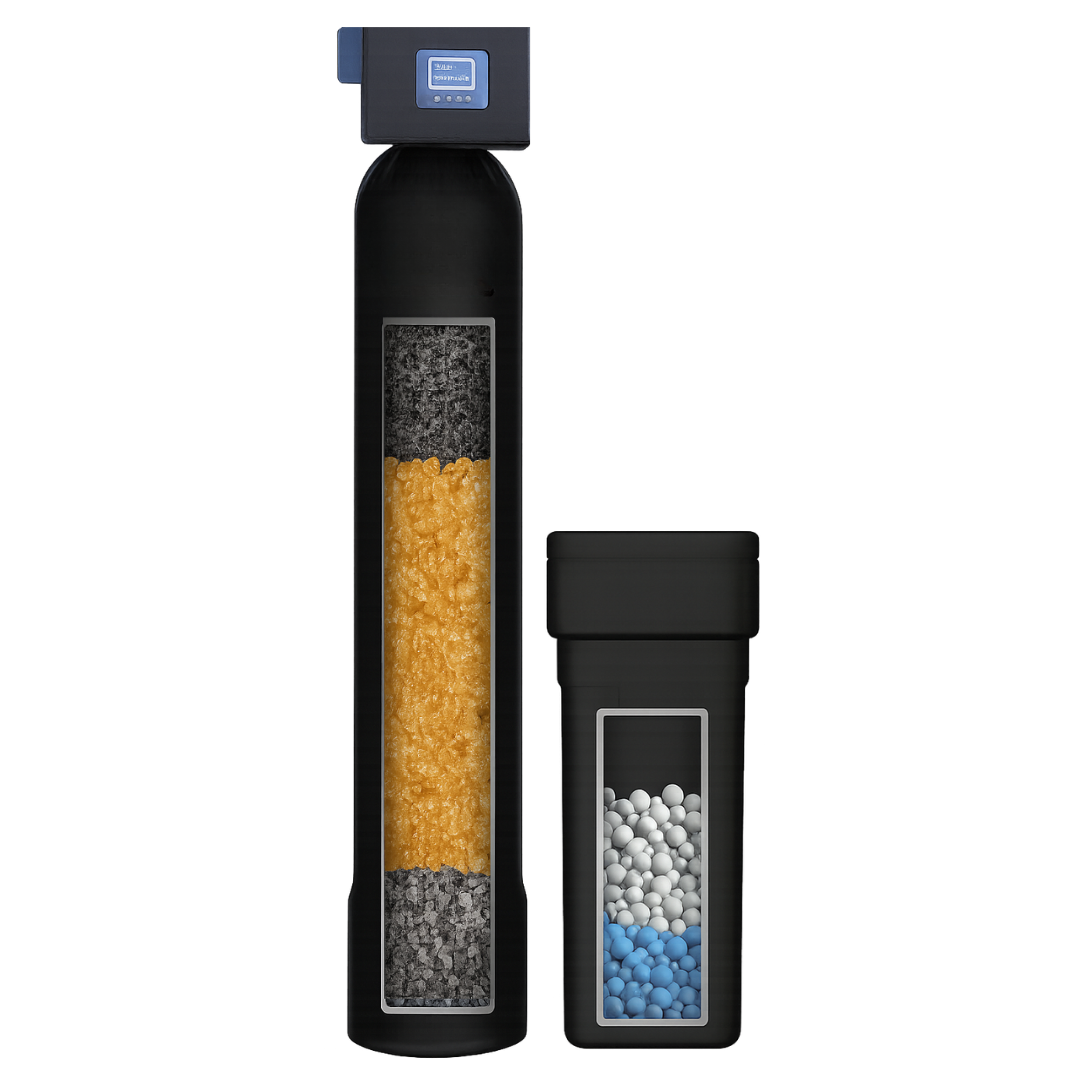
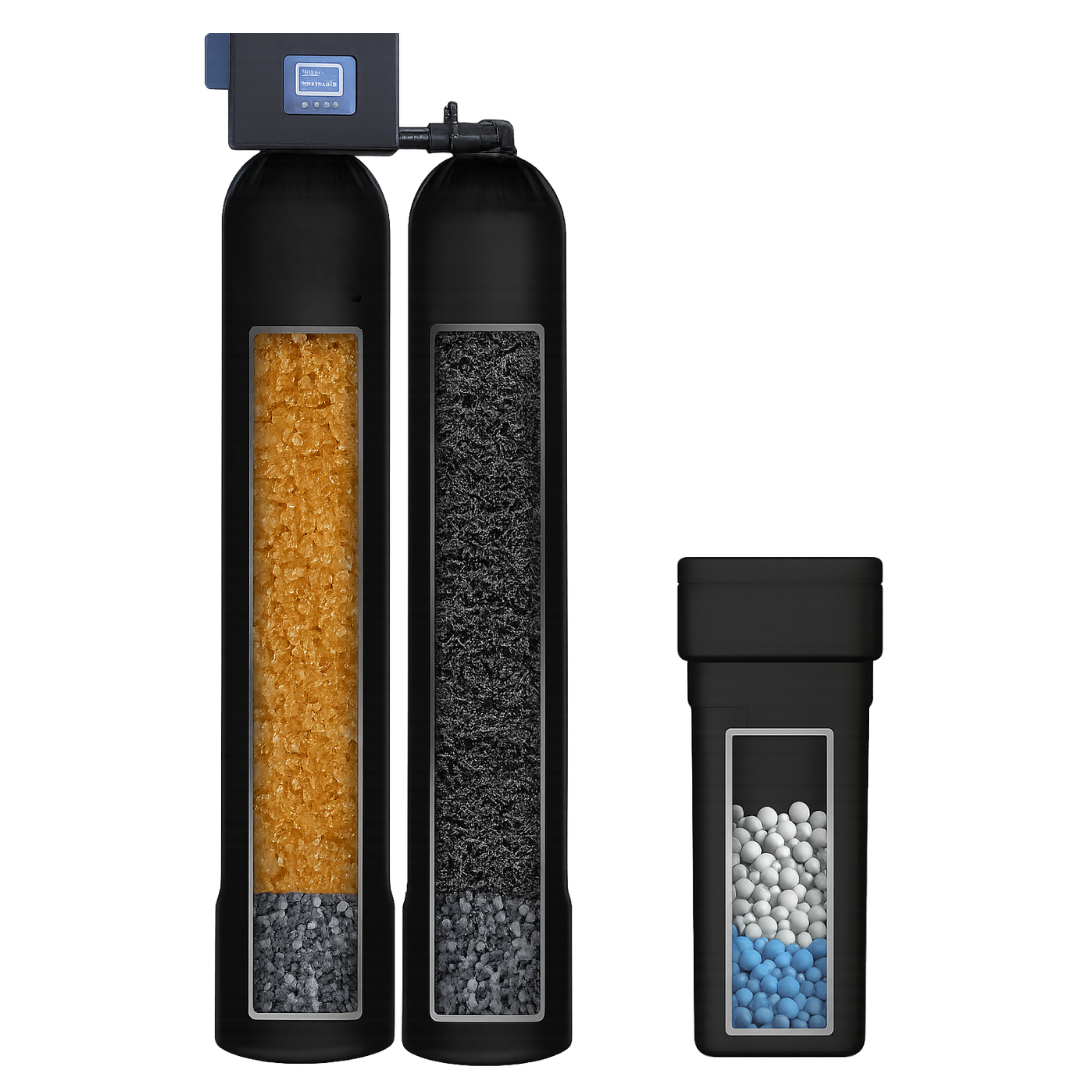
Add files via upload

diff --git a/index.html b/index.html
@@ -1,63 +1,1 @@
-<!doctype html>
-<html lang="en">
-<head>
-  <meta charset="UTF-8" />
-  <meta name="viewport" content="width=device-width, initial-scale=1.0" />
-  <title>Honest Water Co SF</title>
-  <meta name="description" content="Whole-home water filtration and softening systems for San Francisco and Bay Area homeowners." />
-  <link rel="stylesheet" href="style.css" />
-</head>
-<body>
-  <div class="topbar">Save up to 40% on complete home water systems for Bay Area homeowners</div>
-  <header class="header">
-    <a class="brand" href="#top"><span class="logo">💧</span><span><strong>Honest Water Co</strong><small>San Francisco Dealer</small></span></a>
-    <nav>
-      <a href="#products">Products</a><a href="#areas">Service Areas</a><a href="#process">How It Works</a><a href="#gallery">Gallery</a><a href="#faq">FAQs</a>
-    </nav>
-    <div class="header-cta"><a href="tel:[phone redacted]">[phone redacted]</a><a class="btn" href="#quote">Quick Quote</a></div>
-  </header>
-
-  <main id="top">
-    <section class="trust-row">
-      <div>✅ <b>Lifetime Warranty</b><span>Clean water protection</span></div>
-      <div>🔧 <b>Professional Installation</b><span>Local licensed pros</span></div>
-      <div>⭐ <b>Trusted Product Line</b><span>Dealer-backed systems</span></div>
-      <div>🏠 <b>Family-Owned Service</b><span>Bay Area care</span></div>
-    </section>
-
-    <section class="hero">
-      <div class="hero-copy">
-        <p class="pill">Bay Area whole-home water treatment</p>
-        <h1>Trusted Water Treatment & Filtration Services in San Francisco</h1>
-        <p class="lead">Get cleaner, softer, better-tasting water throughout your entire home with Honest Water Co systems — now available for San Francisco and Bay Area homeowners through your local dealer.</p>
-        <div class="actions"><a class="btn" href="#quote">Get My Free Quote →</a><a class="btn ghost" href="tel:[phone redacted]">Call [phone redacted]</a></div>
-        <p class="note">Serving homes within roughly 60–90 minutes of San Francisco.</p>
-      </div>
-      <div class="hero-card">
-        <img src="honest-water-ro-system.png" alt="Honest Water reverse osmosis system" />
-      </div>
-    </section>
-
-    <section id="products" class="section gray">
-      <div class="section-head"><p>Our most popular systems</p><h2>Whole-home water solutions built for Bay Area families.</h2><span>From showers to drinking water, we help homeowners choose the right system for their home, budget, and water quality goals.</span></div>
-      <div class="cards">
-        <article class="card"><span class="tag">Best Seller</span><img src="whole-home-system.png" alt="Complete whole home water system" /><h3>Complete Home System Package</h3><p>A full-home water treatment solution built to improve water quality at the main point of entry, helping your entire home enjoy cleaner, softer water.</p><ul><li>Whole-home treatment</li><li>Cleaner showers</li><li>Better taste and smell</li><li>Appliance protection</li></ul><a class="btn" href="#quote">Request Quote</a></article>
-        <article class="card"><span class="tag">Family Favorite</span><img src="softener-system.png" alt="Water softener system" /><h3>Water Softener with Chlorine Filtration</h3><p>Designed to reduce hardness and chlorine so your water feels better on skin, hair, dishes, laundry, and plumbing fixtures.</p><ul><li>Softer skin and hair</li><li>Less scale buildup</li><li>Cleaner dishes</li><li>Lower soap usage</li></ul><a class="btn" href="#quote">Request Quote</a></article>
-        <article class="card"><span class="tag">Drinking Water Upgrade</span><img src="reverse-osmosis-system.png" alt="Tankless reverse osmosis drinking system" /><h3>Tankless Reverse Osmosis Drinking System</h3><p>A sleek under-sink drinking water system for crisp, clean water straight from the tap.</p><ul><li>Great-tasting water</li><li>Under-sink design</li><li>Daily drinking water</li><li>Modern filtration</li></ul><a class="btn" href="#quote">Request Quote</a></article>
-      </div>
-    </section>
-
-    <section id="process" class="section process"><div><p class="eyebrow">Simple process</p><h2>From quick quote to clean water.</h2><p>We keep the process simple, local, and transparent so you can make a confident decision without pressure.</p></div><div class="steps"><div><b>01</b><h3>Request a Quote</h3><p>Tell us about your home and what you want improved.</p></div><div><b>02</b><h3>Match the System</h3><p>We recommend the right setup for your water goals.</p></div><div><b>03</b><h3>Install & Enjoy</h3><p>A professional installer completes the setup.</p></div></div></section>
-
-    <section id="areas" class="areas"><div><h2>Serving San Francisco and the greater Bay Area.</h2><p>We help homeowners across the Bay Area within roughly an hour to an hour and a half from San Francisco.</p></div><div class="area-grid"><span>San Francisco</span><span>Daly City</span><span>San Mateo</span><span>Burlingame</span><span>Oakland</span><span>Berkeley</span><span>San Rafael</span><span>Mill Valley</span><span>San Jose</span><span>Walnut Creek</span><span>Fremont</span><span>Palo Alto</span></div></section>
-
-    <section id="gallery" class="section"><div class="gallery-head"><div><p class="eyebrow">Install gallery</p><h2>Real installs. Clean setups. Better water.</h2></div><a class="btn" href="#quote">Schedule My Install</a></div><div class="gallery"><img src="install-single-garage.jpg" alt="Whole home water filtration installation"/><img src="install-double-system.jpg" alt="Dual tank whole home water system"/><img src="install-outdoor-brick.jpg" alt="Outdoor whole home water filtration install"/><img src="install-clean-wall.jpg" alt="Clean garage water filtration setup"/><img src="install-corner-system.jpg" alt="Bay Area home water softener installation"/><img src="kitchen-clean-water.jpg" alt="Clean drinking water from kitchen faucet"/></div></section>
-
-    <section id="faq" class="section gray"><div class="section-head"><p>FAQs</p><h2>Common questions answered.</h2></div><div class="faq"><details open><summary>Do you service all of the Bay Area?</summary><p>Yes. We serve homes across San Francisco and most Bay Area cities within roughly 60 to 90 minutes of San Francisco.</p></details><details><summary>Is installation included?</summary><p>Most systems can be professionally installed by a licensed local installer. Details depend on your home setup and selected system.</p></details><details><summary>Will this help with hard water?</summary><p>Yes. Whole-home softening and filtration systems are designed to reduce hardness, chlorine taste and smell, sediment, and common water quality issues depending on the selected package.</p></details></div></section>
-
-    <section id="quote" class="quote"><div><p class="eyebrow">Quick quote</p><h2>Ready to enjoy cleaner water?</h2><p>Call now or request a free quote and we’ll help you choose the right system for your home.</p><a class="btn white" href="tel:[phone redacted]">Call [phone redacted]</a></div><form><input placeholder="Full name"/><input placeholder="Phone number"/><input placeholder="City"/><select><option>What are you interested in?</option><option>Whole-home filtration</option><option>Water softener</option><option>Reverse osmosis drinking water</option><option>Not sure yet</option></select><textarea placeholder="Tell us about your water concerns"></textarea><button type="button">Submit Quote Request</button></form></section>
-  </main>
-  <footer><b>Honest Water Co SF</b><p>Family-owned local dealer helping San Francisco and Bay Area homeowners upgrade to cleaner, softer, better-tasting water.</p><a href="tel:[phone redacted]">[phone redacted]</a></footer>
-  <a class="mobile-call" href="tel:[phone redacted]">Call for Quick Quote</a>
-</body>
-</html>
+<!doctype html><html lang="en"><head><meta charset="UTF-8"/><meta name="viewport" content="width=device-width, initial-scale=1.0"/><title>Golden Crest Water | Bay Area Whole-Home Water Filtration</title><meta name="description" content="Golden Crest Water provides whole-home water filtration, softener and reverse osmosis systems for Bay Area homeowners."/></head><body><div id="root"></div><script type="module" src="/src/main.jsx"></script></body></html>

diff --git a/main.jsx b/main.jsx
@@ -1,0 +1,27 @@
+
+import React from 'react';
+import { createRoot } from 'react-dom/client';
+import { Droplets, ShieldCheck, Wrench, Home, Star, CheckCircle2, Phone } from 'lucide-react';
+import './style.css';
+const img='/images/';
+function App(){
+const services=[
+ {title:'Whole-Home Filtration',image:'whole-home-system.png',items:['Filters water before it reaches every faucet','Targets chlorine taste, odor and sediment','Built for Bay Area homes and families']},
+ {title:'Water Softener Systems',image:'softener-system.png',items:['Helps reduce scale buildup on fixtures','Better shower feel for hair and skin','Protects appliances and plumbing over time']},
+ {title:'Reverse Osmosis Drinking Water',image:'reverse-osmosis-system.png',items:['Clean, crisp water at the kitchen sink','Helps reduce bottled water dependence','Compact under-sink design with modern faucet']}
+];
+const areas=['San Francisco','Daly City','San Mateo','Burlingame','Redwood City','Palo Alto','San Jose','Marin','East Bay'];
+return <>
+ <div className="topbar">Bay Area whole-home water filtration consultations • Financing options available</div>
+ <nav className="nav"><div className="nav-inner"><a className="brand" href="#home"><img src={img+'logo-golden-crest.png'}/><div><div className="brand-title">Golden Crest Water</div><div className="brand-sub">BAY AREA WATER SYSTEMS</div></div></a><div className="links"><a href="#systems">Systems</a><a href="#process">How It Works</a><a href="#areas">Service Areas</a><a href="#gallery">Gallery</a><a href="#quote">Get Quote</a></div><a className="btn" href="#quote">Free Water Check</a></div></nav>
+ <main id="home" className="hero"><div className="hero-grid"><div><span className="eyebrow">Bay Area Whole-Home Water Treatment</span><h1>Cleaner, softer water for your entire home.</h1><p>Golden Crest Water helps homeowners upgrade from hard, chlorine-heavy tap water to professionally installed filtration, softener and reverse osmosis systems.</p><div className="actions"><a className="btn" href="#quote">Book Free Consultation</a><a className="btn secondary" href="#systems">View Systems</a></div></div><div className="hero-card"><img src={img+'golden-install-double-system.jpg'} alt="Installed whole-home water treatment system"/></div></div></main>
+ <section className="trust"><div className="trust-card"><ShieldCheck/><b>Quality Equipment</b><span>Dealer-backed water systems.</span></div><div className="trust-card"><Wrench/><b>Professional Installation</b><span>Installed by local licensed pros.</span></div><div className="trust-card"><Star/><b>Local Service</b><span>Bay Area support from start to finish.</span></div><div className="trust-card"><Home/><b>Family-Owned Feel</b><span>No corporate pressure tactics.</span></div></section>
+ <section className="section blue-section"><div className="wrap split"><div><span className="eyebrow">The Problem</span><h2>Most Bay Area homes still rely on untreated tap water.</h2><p>Even when water is considered safe, many homeowners still deal with chlorine smell, scale buildup, dry skin, rough laundry, appliance wear and bad-tasting drinking water.</p></div><div className="problem-list">{['White scale on faucets and shower glass','Chlorine taste or smell','Dry skin and hair after showering','Buying cases of bottled water','Concern about old plumbing and sediments'].map(x=><div className="problem" key={x}><CheckCircle2 size={18}/> {x}</div>)}</div></div></section>
+ <section id="systems" className="section"><div className="wrap"><div className="section-head"><span className="eyebrow">Systems</span><h2>Built around what your home actually needs.</h2><p>Start with a simple consultation and match the system to your water, household size and goals.</p></div><div className="grid3">{services.map(s=><div className="service" key={s.title}><img src={img+s.image}/><h3>{s.title}</h3><ul>{s.items.map(i=><li key={i}>{i}</li>)}</ul></div>)}</div></div></section>
+ <section id="process" className="section blue-section"><div className="wrap"><div className="section-head"><span className="eyebrow">How It Works</span><h2>A simple process from quote to clean water.</h2></div><div className="steps">{['Free water consultation','System recommendation','Professional installation','Enjoy better water'].map((s,i)=><div className="step" key={s}><div className="num">{i+1}</div><h3>{s}</h3><p>{['We learn your water goals, home setup and service area.','We recommend filtration, softening, RO or a full-home package.','A local licensed pro handles the install cleanly and professionally.','Enjoy better showers, drinking water and appliance protection.'][i]}</p></div>)}</div></div></section>
+ <section id="gallery" className="section"><div className="wrap"><div className="section-head"><span className="eyebrow">Install Gallery</span><h2>Clean installs designed to fit real homes.</h2><p>Garage, side-yard and utility-area installs for homeowners across the Bay Area.</p></div><div className="gallery">{['golden-install-clean-wall.jpg','golden-install-corner-system.jpg','golden-install-double-system.jpg','golden-install-outdoor-brick.jpg','golden-install-single-garage.jpg'].map(x=><img key={x} src={img+x}/>)}</div></div></section>
+ <section id="areas" className="section blue-section"><div className="wrap split"><div><span className="eyebrow">Service Areas</span><h2>Serving homeowners across the Bay Area.</h2><p>Golden Crest Water is based for Peninsula and Bay Area coverage, with consultations available across nearby cities.</p></div><div className="grid3">{areas.map(a=><div className="problem" key={a}>{a}</div>)}</div></div></section>
+ <section id="quote" className="section"><div className="wrap cta"><div><h2>Ready to find out what your home needs?</h2><p>Request a free consultation and we’ll help you compare options for whole-home filtration, softening and drinking water.</p><p className="small">Replace this form with your GoHighLevel embed when ready.</p></div><form className="form"><input placeholder="Full name"/><input placeholder="Phone number"/><input placeholder="City"/><select><option>What are you interested in?</option><option>Whole-home filtration</option><option>Water softener</option><option>Reverse osmosis</option><option>Not sure yet</option></select><textarea rows="4" placeholder="Tell us what you want improved about your water"></textarea><button className="btn" type="button"><Phone size={18}/> Request Quote</button></form></div></section>
+ <footer className="footer"><div className="footer-inner"><div><b>Golden Crest Water</b><div className="small">Whole-home water filtration, softeners and RO systems for Bay Area homeowners.</div></div><div className="small">Service-area business • Bay Area, CA<br/>© {new Date().getFullYear()} Golden Crest Water. All rights reserved.</div></div></footer>
+ </>}
+createRoot(document.getElementById('root')).render(<App/>);

diff --git a/style.css b/style.css
@@ -1,2 +1,2 @@
 
-*{box-sizing:border-box}html{scroll-behavior:smooth}body{margin:0;font-family:Inter,ui-sans-serif,system-ui,-apple-system,BlinkMacSystemFont,"Segoe UI",sans-serif;color:#071126;background:white}a{text-decoration:none;color:inherit}.topbar{background:#0b79bd;color:white;text-align:center;font-weight:800;font-size:14px;padding:12px}.header{position:sticky;top:0;z-index:10;display:flex;align-items:center;justify-content:space-between;gap:24px;padding:16px 7%;background:rgba(255,255,255,.92);border-bottom:1px solid #e6edf3;backdrop-filter:blur(14px)}.brand{display:flex;align-items:center;gap:12px}.logo{display:grid;place-items:center;background:#0b8bd3;color:white;width:44px;height:44px;border-radius:50%}.brand strong{display:block;font-size:19px}.brand small{display:block;color:#0b79bd;text-transform:uppercase;font-size:11px;letter-spacing:2px;font-weight:900}nav{display:flex;gap:24px;font-size:14px;font-weight:800;color:#3d4a5c}.header-cta{display:flex;align-items:center;gap:18px;font-weight:900}.btn{display:inline-flex;align-items:center;justify-content:center;background:#1789d1;color:white;border-radius:999px;padding:14px 24px;font-weight:900;box-shadow:0 12px 25px rgba(23,137,209,.22);border:0}.btn.ghost{background:white;color:#071126;border:1px solid #dce6ef;box-shadow:none}.btn.white{background:white;color:#071126}.trust-row{display:grid;grid-template-columns:repeat(4,1fr);gap:16px;padding:30px 7%;background:linear-gradient(#effaff,#fff)}.trust-row div{background:white;border:1px solid #e2ebf3;border-radius:22px;padding:18px;box-shadow:0 8px 20px rgba(9,26,44,.05)}.trust-row b{display:block}.trust-row span{display:block;color:#6b7888;font-size:13px;margin-top:4px}.hero{display:grid;grid-template-columns:1.1fr .9fr;gap:60px;align-items:center;padding:70px 7% 90px}.pill,.eyebrow,.section-head p{display:inline-block;color:#0875b8;background:#e9f7ff;border:1px solid #b9e6ff;border-radius:999px;padding:8px 15px;font-size:14px;font-weight:900;text-transform:uppercase;letter-spacing:.08em}.hero h1{font-size:clamp(44px,6vw,82px);line-height:.97;margin:20px 0;color:#050817;letter-spacing:-.06em}.lead{font-size:20px;line-height:1.8;color:#405169;max-width:720px}.actions{display:flex;gap:14px;margin-top:28px}.note{font-weight:800;color:#6b7888;margin-top:20px}.hero-card{border-radius:34px;background:linear-gradient(145deg,#effaff,#fff);padding:30px;box-shadow:0 30px 80px rgba(7,17,38,.13)}.hero-card img{display:block;max-height:540px;width:100%;object-fit:contain}.section{padding:90px 7%}.gray{background:#f6f9fc}.section-head{text-align:center;max-width:850px;margin:0 auto 48px}.section-head h2,.process h2,.areas h2,.gallery-head h2,.quote h2{font-size:clamp(34px,4vw,56px);line-height:1.05;margin:16px 0 16px;letter-spacing:-.04em}.section-head span,.section-head p+span,.process p,.areas p,.quote p{color:#5b687a;font-size:18px;line-height:1.7}.cards{display:grid;grid-template-columns:repeat(3,1fr);gap:26px}.card{background:white;border:1px solid #e1eaf3;border-radius:32px;padding:26px;box-shadow:0 8px 25px rgba(7,17,38,.04);transition:.2s}.card:hover{transform:translateY(-5px);box-shadow:0 18px 40px rgba(7,17,38,.1)}.tag{display:inline-block;background:#e9f7ff;color:#0875b8;border-radius:999px;padding:8px 12px;font-size:12px;font-weight:900;text-transform:uppercase}.card img{width:100%;height:270px;object-fit:contain;background:linear-gradient(145deg,#f8fbff,#fff);border-radius:24px;padding:18px;margin:18px 0}.card h3{font-size:25px;margin:10px 0}.card p,.card li{color:#5b687a;line-height:1.6}.card ul{padding-left:20px}.process{display:grid;grid-template-columns:.8fr 1.2fr;gap:50px}.steps{display:grid;grid-template-columns:repeat(3,1fr);gap:20px}.steps div{border:1px solid #e1eaf3;border-radius:28px;padding:25px}.steps b{color:#0875b8}.areas{display:grid;grid-template-columns:.8fr 1.2fr;gap:50px;align-items:center;background:#0875b8;color:white;padding:90px 7%}.areas p{color:#e6f7ff}.area-grid{display:grid;grid-template-columns:repeat(3,1fr);gap:12px}.area-grid span{background:rgba(255,255,255,.13);padding:15px;border-radius:16px;font-weight:900}.gallery-head{display:flex;align-items:end;justify-content:space-between;gap:30px;margin-bottom:38px}.gallery{display:grid;grid-template-columns:repeat(3,1fr);gap:22px}.gallery img{width:100%;aspect-ratio:4/3;object-fit:cover;border-radius:30px;border:1px solid #e1eaf3;box-shadow:0 8px 22px rgba(7,17,38,.06)}.faq{display:grid;gap:14px;max-width:900px;margin:auto}.faq details{background:white;border:1px solid #e1eaf3;border-radius:24px;padding:22px}.faq summary{font-size:18px;font-weight:900;cursor:pointer}.faq p{color:#5b687a;line-height:1.7}.quote{margin:90px 7%;display:grid;grid-template-columns:1fr 1fr;overflow:hidden;border-radius:36px;background:#071126;color:white;box-shadow:0 30px 80px rgba(7,17,38,.22)}.quote>div{padding:52px}.quote form{display:grid;gap:14px;background:white;padding:52px}.quote input,.quote select,.quote textarea{width:100%;border:1px solid #dfe8f1;border-radius:18px;padding:17px;font:inherit}.quote textarea{min-height:120px}.quote button{border:0;border-radius:999px;background:#1789d1;color:white;padding:17px;font-weight:900;font:inherit}footer{border-top:1px solid #e1eaf3;padding:45px 7%;color:#5b687a}footer b{color:#071126;font-size:22px}.mobile-call{display:none}@media(max-width:900px){nav,.header-cta{display:none}.hero,.process,.areas,.quote{grid-template-columns:1fr}.trust-row,.cards,.gallery,.area-grid,.steps{grid-template-columns:1fr}.hero{padding-top:45px}.actions{flex-direction:column}.quote{margin:50px 4%}.header{padding:14px 4%}.section,.areas{padding:60px 4%}.trust-row{padding:22px 4%}.mobile-call{display:block;position:fixed;left:16px;right:16px;bottom:16px;text-align:center;background:#1789d1;color:white;padding:16px;border-radius:999px;font-weight:900;z-index:20;box-shadow:0 18px 35px rgba(23,137,209,.35)}}
+:root{--navy:#071d3a;--blue:#0d70b8;--gold:#c99729;--muted:#64748b;--bg:#f7fbff;--card:#fff;--line:#dbe8f4}*{box-sizing:border-box}body{margin:0;font-family:Inter,ui-sans-serif,system-ui,-apple-system,Segoe UI,Roboto,Arial,sans-serif;color:#08111f;background:#fff}a{text-decoration:none;color:inherit}img{max-width:100%;display:block}.topbar{background:var(--navy);color:white;font-size:14px;padding:10px 20px;text-align:center}.nav{position:sticky;top:0;z-index:20;background:rgba(255,255,255,.94);backdrop-filter:blur(12px);border-bottom:1px solid var(--line)}.nav-inner{max-width:1180px;margin:auto;display:flex;align-items:center;justify-content:space-between;padding:14px 20px}.brand{display:flex;align-items:center;gap:12px}.brand img{width:66px;height:54px;object-fit:contain}.brand-title{font-weight:900;letter-spacing:.02em;color:var(--navy);font-size:20px}.brand-sub{font-size:11px;color:var(--blue);font-weight:800;letter-spacing:.22em}.links{display:flex;gap:22px;color:#26364a;font-weight:700;font-size:14px}.btn{display:inline-flex;align-items:center;justify-content:center;border-radius:999px;padding:13px 20px;background:linear-gradient(135deg,var(--gold),#e5bd57);color:#08111f;font-weight:900;border:0;box-shadow:0 14px 30px rgba(201,151,41,.22)}.btn.secondary{background:white;color:var(--navy);border:1px solid var(--line);box-shadow:none}.hero{background:radial-gradient(circle at 80% 10%,#e9f7ff 0,#fff 36%,#f7fbff 100%);padding:76px 20px 52px}.hero-grid{max-width:1180px;margin:auto;display:grid;grid-template-columns:1.05fr .95fr;gap:44px;align-items:center}.eyebrow{display:inline-flex;background:#e8f5ff;color:#0d70b8;border:1px solid #a7d8ff;border-radius:999px;padding:8px 14px;font-weight:900;font-size:13px;letter-spacing:.12em;text-transform:uppercase}.hero h1{font-size:clamp(42px,6vw,72px);line-height:.95;margin:24px 0 18px;color:#061127;letter-spacing:-.06em}.hero p{font-size:20px;line-height:1.65;color:#3b4a5d;max-width:650px}.actions{display:flex;gap:14px;flex-wrap:wrap;margin-top:28px}.hero-card{background:white;border:1px solid var(--line);border-radius:34px;padding:24px;box-shadow:0 24px 80px rgba(8,29,58,.12)}.hero-card img{border-radius:24px;height:430px;width:100%;object-fit:cover}.trust{max-width:1180px;margin:-26px auto 40px;display:grid;grid-template-columns:repeat(4,1fr);gap:16px;padding:0 20px}.trust-card{background:white;border:1px solid var(--line);border-radius:22px;padding:20px;box-shadow:0 12px 40px rgba(8,29,58,.06)}.trust-card b{display:block;color:var(--navy);font-size:16px;margin-bottom:5px}.trust-card span{color:var(--muted);font-size:14px}.section{padding:74px 20px}.blue-section{background:var(--bg)}.wrap{max-width:1180px;margin:auto}.section-head{max-width:760px;margin-bottom:34px}.section h2{font-size:clamp(32px,4vw,52px);line-height:1.02;margin:14px 0;color:#061127;letter-spacing:-.04em}.section p{color:#475569;line-height:1.7;font-size:18px}.grid3{display:grid;grid-template-columns:repeat(3,1fr);gap:22px}.service{background:white;border:1px solid var(--line);border-radius:28px;padding:24px;box-shadow:0 16px 44px rgba(8,29,58,.07)}.service img{height:230px;object-fit:contain;margin:auto}.service h3{font-size:23px;color:var(--navy);margin:18px 0 8px}.service ul{color:#475569;line-height:1.9;padding-left:20px}.split{display:grid;grid-template-columns:1fr 1fr;gap:34px;align-items:center}.problem-list{display:grid;gap:14px}.problem{background:white;border:1px solid var(--line);border-radius:18px;padding:18px 20px;font-weight:800;color:#26364a}.gallery{display:grid;grid-template-columns:repeat(5,1fr);gap:14px}.gallery img{height:240px;width:100%;object-fit:cover;border-radius:20px;border:1px solid var(--line)}.steps{display:grid;grid-template-columns:repeat(4,1fr);gap:18px}.step{background:white;border:1px solid var(--line);border-radius:22px;padding:24px}.num{width:42px;height:42px;border-radius:999px;background:var(--navy);color:white;display:flex;align-items:center;justify-content:center;font-weight:900;margin-bottom:18px}.cta{background:linear-gradient(135deg,#061127,#0b3767);color:white;border-radius:36px;padding:46px;display:grid;grid-template-columns:1.2fr .8fr;gap:24px;align-items:center}.cta h2{color:white;margin:0}.cta p{color:#dbeafe}.form{background:white;border-radius:26px;padding:24px;color:#0f172a}.form input,.form textarea,.form select{width:100%;padding:14px 16px;margin:8px 0;border-radius:14px;border:1px solid #dbe3ea;font:inherit}.footer{background:#061127;color:#cbd5e1;padding:34px 20px}.footer-inner{max-width:1180px;margin:auto;display:flex;justify-content:space-between;gap:20px;flex-wrap:wrap}.small{font-size:13px;color:#94a3b8}.mobile-only{display:none}@media(max-width:860px){.links{display:none}.hero-grid,.split,.cta{grid-template-columns:1fr}.trust,.grid3,.steps{grid-template-columns:1fr}.gallery{grid-template-columns:1fr 1fr}.hero{padding-top:42px}.hero-card img{height:320px}.brand img{width:52px}.brand-title{font-size:17px}.section{padding:54px 18px}.cta{padding:28px}.mobile-only{display:inline-flex}}

diff --git a/README.md b/README.md
@@ -1,3 +1,14 @@
-# Honest Water Co SF
+# Golden Crest Water Website
 
-Static website. Upload all files at the root of the GitHub repo. Vercel will host it directly. No React build or public folder required.
+Vite/React landing page for Golden Crest Water.
+
+## Deploy on Vercel
+1. Upload this folder to a GitHub repo.
+2. Import repo in Vercel.
+3. Framework: Vite.
+4. Build command: `npm run build`.
+5. Output directory: `dist`.
+
+## Notes
+- Replace the quote form with your GoHighLevel form embed.
+- Update phone number, business email, and exact service-area/address info when finalized.